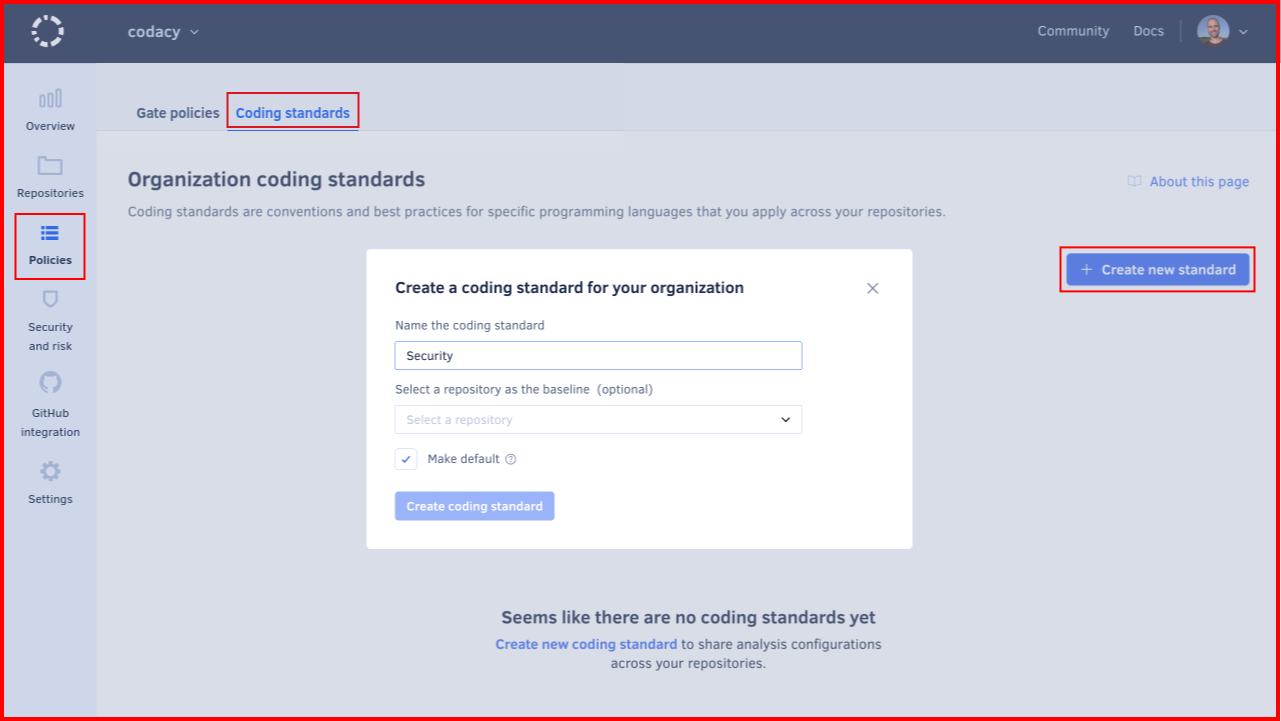
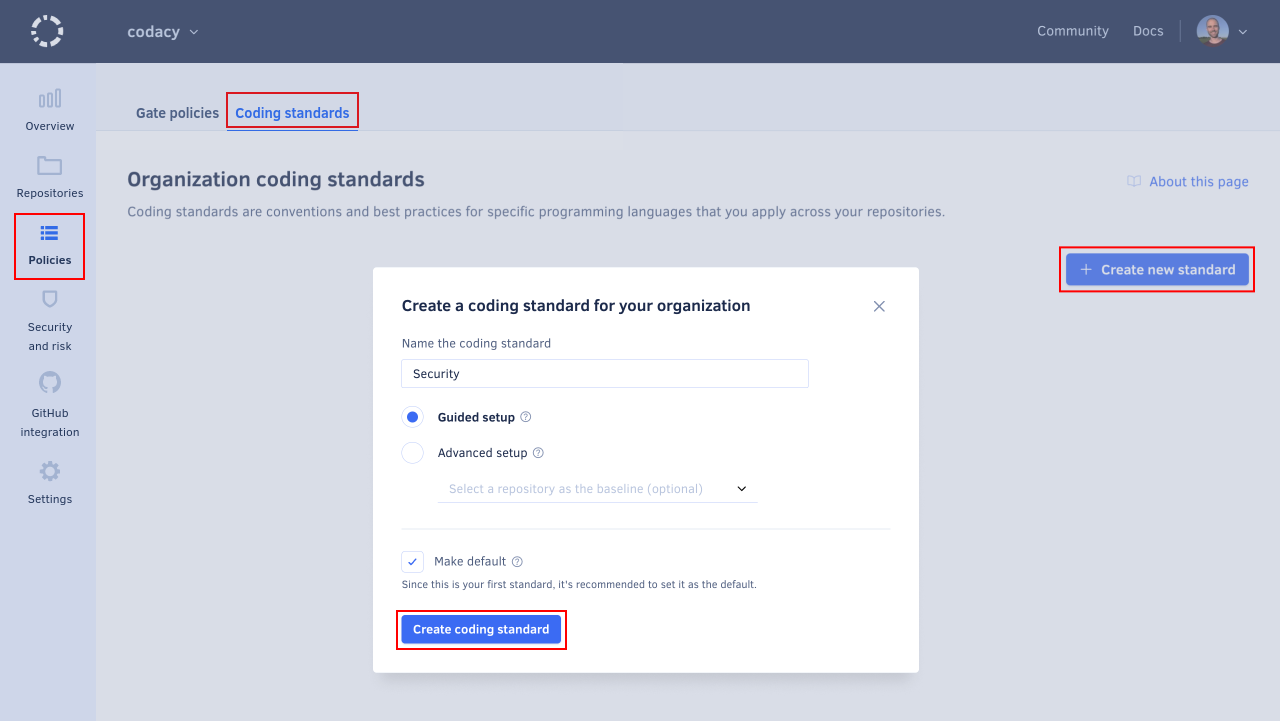
feat: Update screenshot

diff --git a/docs/organizations/using-coding-standards.md b/docs/organizations/using-coding-standards.md
@@ -25,9 +25,7 @@ To create a coding standard for your organization:
 
 1.  Enter a unique name for the new coding standard.
 
-    Optionally, you can set the new coding standard as your organization's [default coding standard](#set-default), so it applies automatically to new repositories.
-
-    ![Creating a new coding standard](images/coding-standard-create.png)<!-- TODO ALA-1057 update image -->
+    Optionally, check **Make default** to set the new coding standard as your organization's [default coding standard](#set-default), so it applies automatically to new repositories.
 
 1.  Choose whether to create the coding standard using a guided or advanced setup:
 
@@ -35,7 +33,9 @@ To create a coding standard for your organization:
 
     -   The **advanced setup** lets you choose individual languages and code patterns to activate. It's ideal for fine-tuning the coding standard to your organization's specific needs, offering more control over the tools and code patterns used.
     
-        With the advanced setup, you can optionally select a repository as a baseline for the new coding standard. This is useful if you already have a well-configured repository that you wish to use as a template.
+        With the advanced setup, you can optionally **select a repository as the baseline** for the new coding standard. This is useful if you already have a well-configured repository that you wish to use as a template.
+
+    ![Creating a new coding standard](images/coding-standard-create.png)
 
 1.  Click **Create coding standard** to proceed to the [guided setup](#guided-setup) or [advanced setup](#advanced-settings), depending on your choice.
 
